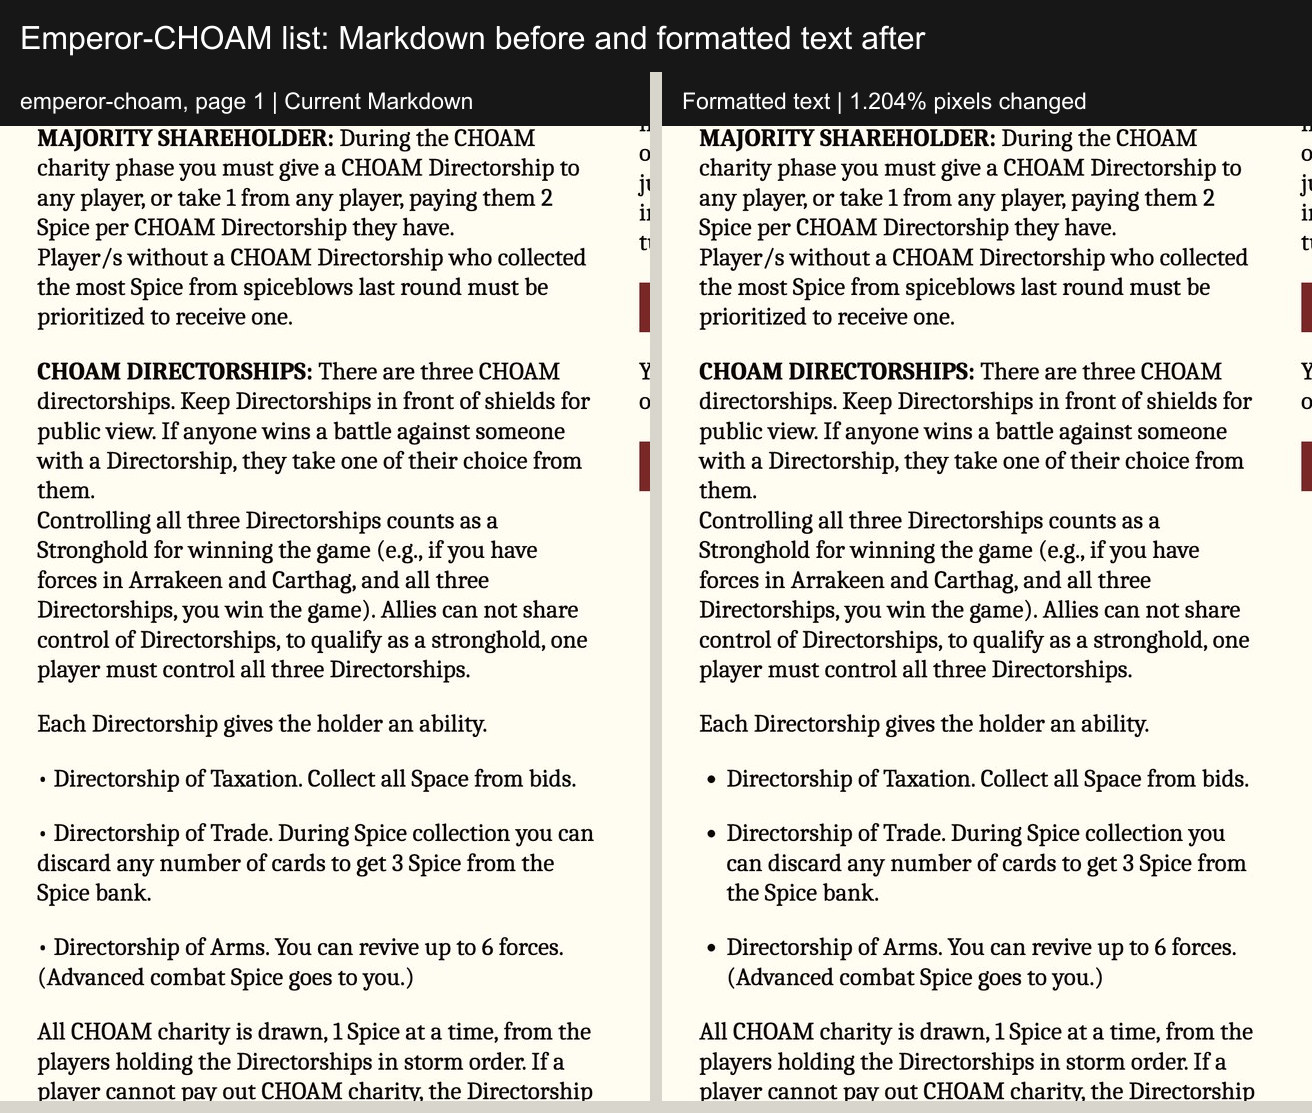
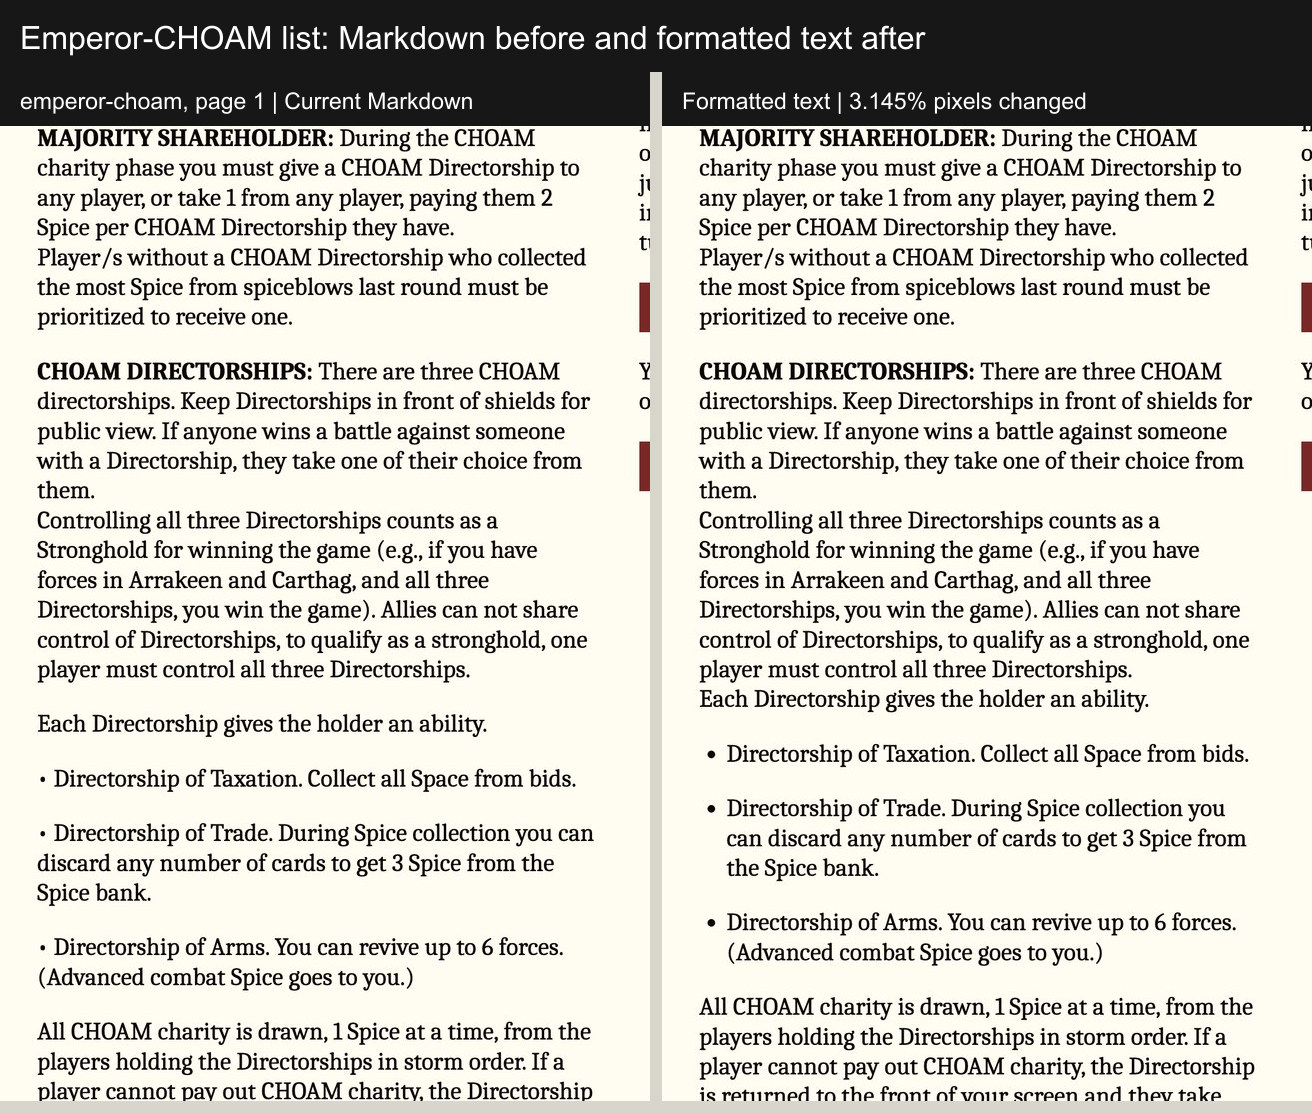
The sheet keeps inline formatted fields in flow

Changed region(s): [[0.5312, 0.611, 0.9688, 1.0], [0.6562, 0.0611, 0.6875, 0.1222]]

diff --git a/scripts/prototype-formatted-text-receipts.ts b/scripts/prototype-formatted-text-receipts.ts
@@ -295,8 +295,12 @@ const receipts: Receipt[] = [];
 let emperorChoamBefore: Buffer | undefined;
 let emperorChoamAfter: Buffer | undefined;
 let emperorChoamReceipt: Receipt | undefined;
+let richeseBefore: Buffer | undefined;
+let richeseAfter: Buffer | undefined;
+let richeseReceipt: Receipt | undefined;
 try {
   for (const row of [...liveFactions].sort((left, right) => left.slug.localeCompare(right.slug))) {
+    console.log(`Capturing faction ${row.slug}`);
     const faction = FactionInputSchema.parse(row.data);
     const input = snapshot('faction_sheet', {
       factionId: row._id,
@@ -322,6 +326,11 @@ try {
         emperorChoamAfter = candidate;
         emperorChoamReceipt = receipt;
       }
+      if (row.slug === 'richese' && pageIndex === 0) {
+        richeseBefore = current;
+        richeseAfter = candidate;
+        richeseReceipt = receipt;
+      }
       if (pageIndex === 0 && (factionSlugs as readonly string[]).includes(row.slug)) {
         factionRowsForSheet.push({ current, candidate, receipt });
       }
@@ -329,6 +338,7 @@ try {
   }
 
   for (const row of [...liveCards].sort((left, right) => left.slug.localeCompare(right.slug))) {
+    console.log(`Capturing treachery card ${row.slug}`);
     const card = TreacheryAsset.parse(row.data);
     const input = snapshot('card-treachery', {
       assetId: row._id,
@@ -356,13 +366,40 @@ try {
 }
 
 invariant(emperorChoamBefore && emperorChoamAfter && emperorChoamReceipt, 'Missing Emperor-CHOAM comparison');
+const emperorChoamMetadata = await sharp(emperorChoamBefore).metadata();
+invariant(
+  emperorChoamMetadata.width !== undefined && emperorChoamMetadata.height !== undefined,
+  'Missing page dimensions'
+);
+const emperorChoamHeader = {
+  left: 0,
+  top: 0,
+  width: emperorChoamMetadata.width,
+  height: Math.min(680, emperorChoamMetadata.height),
+};
+const emperorChoamBeforeHeader = await sharp(emperorChoamBefore).extract(emperorChoamHeader).png().toBuffer();
+const emperorChoamAfterHeader = await sharp(emperorChoamAfter).extract(emperorChoamHeader).png().toBuffer();
+const emperorChoamHeaderComparison = await comparePixels(emperorChoamBeforeHeader, emperorChoamAfterHeader);
 const emperorChoamFocus = { left: 0, top: 550, width: 1100, height: 1650 };
 const emperorChoamBeforeFocus = await sharp(emperorChoamBefore).extract(emperorChoamFocus).png().toBuffer();
 const emperorChoamAfterFocus = await sharp(emperorChoamAfter).extract(emperorChoamFocus).png().toBuffer();
 await Promise.all([
+  writeFile(path.join(receiptDirectory, 'emperor-choam-header-before.png'), emperorChoamBeforeHeader),
+  writeFile(path.join(receiptDirectory, 'emperor-choam-header-after.png'), emperorChoamAfterHeader),
   writeFile(path.join(receiptDirectory, 'emperor-choam-before.png'), emperorChoamBeforeFocus),
   writeFile(path.join(receiptDirectory, 'emperor-choam-after.png'), emperorChoamAfterFocus),
 ]);
+await contactSheet(
+  'emperor-choam-header-before-after.jpg',
+  'Emperor-CHOAM inline fields: Markdown before and formatted text after',
+  [
+    {
+      current: emperorChoamBeforeHeader,
+      candidate: emperorChoamAfterHeader,
+      receipt: { ...emperorChoamReceipt, label: 'page 1', ...emperorChoamHeaderComparison },
+    },
+  ]
+);
 await contactSheet('emperor-choam-before-after.jpg', 'Emperor-CHOAM list: Markdown before and formatted text after', [
   {
     current: emperorChoamBeforeFocus,
@@ -370,6 +407,34 @@ await contactSheet('emperor-choam-before-after.jpg', 'Emperor-CHOAM list: Markdo
     receipt: emperorChoamReceipt,
   },
 ]);
+
+invariant(richeseBefore && richeseAfter && richeseReceipt, 'Missing Richese comparison');
+const richeseMetadata = await sharp(richeseBefore).metadata();
+invariant(richeseMetadata.width !== undefined && richeseMetadata.height !== undefined, 'Missing Richese dimensions');
+const richeseHeader = {
+  left: 0,
+  top: 0,
+  width: richeseMetadata.width,
+  height: Math.min(680, richeseMetadata.height),
+};
+const richeseBeforeHeader = await sharp(richeseBefore).extract(richeseHeader).png().toBuffer();
+const richeseAfterHeader = await sharp(richeseAfter).extract(richeseHeader).png().toBuffer();
+const richeseHeaderComparison = await comparePixels(richeseBeforeHeader, richeseAfterHeader);
+await Promise.all([
+  writeFile(path.join(receiptDirectory, 'richese-header-before.png'), richeseBeforeHeader),
+  writeFile(path.join(receiptDirectory, 'richese-header-after.png'), richeseAfterHeader),
+]);
+await contactSheet(
+  'richese-header-before-after.jpg',
+  'Richese inline setup: Markdown before and formatted text after',
+  [
+    {
+      current: richeseBeforeHeader,
+      candidate: richeseAfterHeader,
+      receipt: { ...richeseReceipt, label: 'page 1', ...richeseHeaderComparison },
+    },
+  ]
+);
 
 await contactSheet(
   'faction-sheets.jpg',
@@ -390,6 +455,8 @@ The full sweep covers every live faction and treachery card in the clone. The co
 
 - [Faction sheet comparisons](./faction-sheets.jpg)
 - [Treachery card comparisons](./treachery-cards.jpg)
+- [Focused Emperor-CHOAM inline fields before and after](./emperor-choam-header-before-after.jpg)
+- [Focused Richese inline setup before and after](./richese-header-before-after.jpg)
 - [Focused Emperor-CHOAM before and after](./emperor-choam-before-after.jpg)
 
 Sweep summary:

diff --git a/src/game/components/block/MarkdownContent.tsx b/src/game/components/block/MarkdownContent.tsx
@@ -29,17 +29,21 @@ type InlineNodeOf<TBlock> = TBlock extends {
     : never;
 type InlineNode = InlineNodeOf<ParsedBlocks[number]>;
 
-function renderInline(nodes: readonly InlineNode[], keyPrefix: string): ReactNode[] {
+function renderInline(
+  nodes: readonly InlineNode[],
+  keyPrefix: string,
+  lineBreak: 'break' | 'space' = 'break'
+): ReactNode[] {
   return nodes.map((node, index) => {
     const key = `${keyPrefix}-${index}`;
     if (node.kind === 'text') {
       return node.value;
     }
     if (node.kind === 'line-break') {
-      return <br key={key} />;
+      return lineBreak === 'break' ? <br key={key} /> : ' ';
     }
 
-    const children = renderInline(node.children, key);
+    const children = renderInline(node.children, key, lineBreak);
     switch (node.mark) {
       case 'bold':
         return <strong key={key}>{children}</strong>;
@@ -54,31 +58,14 @@ function renderInline(nodes: readonly InlineNode[], keyPrefix: string): ReactNod
 function FormattedTextPrototype({ forceInline, value }: { forceInline?: boolean; value: string }) {
   const parsed = parseFormattedText(value);
   if (forceInline) {
-    return parsed.blocks.map((block, blockIndex) => {
-      if (block.kind === 'paragraph') {
-        return (
-          <Fragment key={`paragraph-${blockIndex}`}>
-            {blockIndex > 0 ? (
-              <>
-                <br />
-                <br />
-              </>
-            ) : null}
-            {renderInline(block.children, `paragraph-${blockIndex}`)}
-          </Fragment>
-        );
-      }
-      return (
-        <span key={`list-${blockIndex}`}>
-          {block.items.map((item, itemIndex) => (
-            <span key={`item-${itemIndex}`}>
-              {blockIndex > 0 || itemIndex > 0 ? <br /> : null}•{' '}
-              {renderInline(item.children, `list-${blockIndex}-item-${itemIndex}`)}
-            </span>
-          ))}
-        </span>
-      );
-    });
+    const [block] = parsed.blocks;
+    if (block === undefined) {
+      return null;
+    }
+    if (parsed.blocks.length !== 1 || block.kind !== 'paragraph') {
+      throw new Error('Inline formatted text cannot contain multiple blocks or lists');
+    }
+    return <Fragment>{renderInline(block.children, 'inline', 'space')}</Fragment>;
   }
 
   return parsed.blocks.map((block, blockIndex) =>
@@ -94,19 +81,24 @@ function FormattedTextPrototype({ forceInline, value }: { forceInline?: boolean;
   );
 }
 
-export const MarkdownContent: FC<
-  PropsWithChildren<{
-    value?: string;
-    forceInline?: boolean;
-    forceBlock?: boolean;
-  }>
-> = ({ forceBlock, forceInline, value = '', children }) => {
-  const v = `${value}${onlyText(children)}`.replace(/^(\w+.+)(\n)(^\w+.+)/gim, '$1  \n$3\n');
+type MarkdownContentProps = PropsWithChildren<{
+  value?: string;
+  forceInline?: boolean;
+  forceBlock?: boolean;
+}>;
+
+export const MarkdownContent: FC<MarkdownContentProps> = ({ forceBlock, forceInline, value = '', children }) => {
+  const source = `${value}${onlyText(children)}`;
   const prototypeMode = useContext(PrototypeRenderModeContext);
 
   if (prototypeMode === 'formatted-text') {
-    return <FormattedTextPrototype forceInline={forceInline} value={v} />;
+    return <FormattedTextPrototype forceInline={forceInline} value={source} />;
   }
 
+  const v = source.replace(/^(\w+.+)(\n)(^\w+.+)/gim, '$1  \n$3\n');
   return <Markdown options={{ disableParsingRawHTML: true, forceBlock, forceInline }}>{v}</Markdown>;
 };
+
+export const InlineMarkdownContent: FC<Omit<MarkdownContentProps, 'forceBlock' | 'forceInline'>> = (props) => (
+  <MarkdownContent {...props} forceInline />
+);

diff --git a/src/game/assets/faction/sheet/Sheet.formattedTextPrototype.test.tsx b/src/game/assets/faction/sheet/Sheet.formattedTextPrototype.test.tsx
@@ -1,0 +1,44 @@
+// @vitest-environment jsdom
+
+import { render, screen } from '@testing-library/react';
+import { describe, expect, it, vi } from 'vitest';
+
+vi.mock('../leader/Leader', () => ({
+  LeaderToken: () => <div data-test-leader-token />,
+}));
+vi.mock('../token/Token', () => ({
+  Token: () => <div data-test-faction-token />,
+}));
+vi.mock('../troop/Troop', () => ({
+  TroopToken: () => <div data-test-troop-token />,
+}));
+
+import { assetPublishingFaction } from '@shared/factions/fixtures/assetPublishingFaction';
+import { FactionRender } from '@shared/factions/schema';
+
+import { PrototypeFormattedTextProvider } from '../../../components/block/MarkdownContent';
+import { FactionSheetPage1 } from './Sheet';
+
+describe('FactionSheet formatted-text prototype', () => {
+  it('renders setup and revival as marks-only inline fields', () => {
+    const props = FactionRender.sheet.parse(structuredClone(assetPublishingFaction));
+    props.rules.startText = 'Keep the first line\nflowing on the second with *bold words*.';
+    props.rules.revivalText = '1 *free* revival.';
+
+    const { container } = render(
+      <PrototypeFormattedTextProvider mode="formatted-text">
+        <FactionSheetPage1 {...props} />
+      </PrototypeFormattedTextProvider>
+    );
+
+    const start = container.querySelector('[data-faction-start-instructions]');
+    const revival = screen.getByText('Revival:').parentElement;
+
+    expect(start?.textContent).toBe('Keep the first line flowing on the second with bold words.');
+    expect(start?.querySelectorAll('p, ul, br')).toHaveLength(0);
+    expect(screen.getAllByText('bold words')).toHaveLength(1);
+    expect(revival?.textContent).toBe('Revival: 1 free revival.');
+    expect(revival?.querySelectorAll('p, ul, br')).toHaveLength(0);
+    expect(screen.getAllByText('free')).toHaveLength(1);
+  });
+});

diff --git a/src/game/assets/faction/sheet/Sheet.tsx b/src/game/assets/faction/sheet/Sheet.tsx
@@ -2,7 +2,7 @@ import type { FactionRender } from '@shared/factions/schema';
 import type { z } from 'zod';
 
 import { CAPTURE_PROTOCOL } from '../../../../shared/asset-publishing/capture-protocol';
-import { MarkdownContent } from '../../../components/block/MarkdownContent';
+import { InlineMarkdownContent, MarkdownContent } from '../../../components/block/MarkdownContent';
 import { isLight } from '../../utils/contrast';
 import { LeaderToken } from '../leader/Leader';
 import { Token } from '../token/Token';
@@ -56,13 +56,14 @@ export function FactionSheetPage1(props: SheetProps) {
               ·
             </span>
             <span data-faction-start-instructions>
-              <MarkdownContent forceInline>{props.rules.startText}</MarkdownContent>
+              <InlineMarkdownContent>{props.rules.startText}</InlineMarkdownContent>
             </span>
           </>
         ) : null}
       </div>
       <div className={styles.revival}>
-        <strong className={styles.head}>Revival:</strong> <MarkdownContent>{props.rules.revivalText}</MarkdownContent>
+        <strong className={styles.head}>Revival:</strong>{' '}
+        <InlineMarkdownContent>{props.rules.revivalText}</InlineMarkdownContent>
       </div>
       <div className={styles.rules}>
         <div className={styles.subtitle}>Advantages</div>

diff --git a/workers/publisher/renderer-manifest.generated.ts b/workers/publisher/renderer-manifest.generated.ts
@@ -4,12 +4,12 @@
 // sharp version), so this file is reproducible on any machine (wayfinder #269).
 export const rendererManifest = {
   schemaVersion: 2,
-  rendererIdentity: 'faction-sheet/sha256:346ba035ca107f7711330ea322795824b665b4f982b3dcf384481a856eb817b5',
[1 lines of base64/hex data omitted]
+  rendererIdentity: 'faction-sheet/sha256:6dcfeabd24971a922c38ecdaf8411dbc391a828fffde64e367c69fd71d11fdd3',
[1 lines of base64/hex data omitted]
   components: {
[5 lines of base64/hex data omitted]
   },
   contract: {

diff --git a/src/game/assets/faction/sheet/Sheet.test.tsx b/src/game/assets/faction/sheet/Sheet.test.tsx
@@ -5,6 +5,7 @@ import type { ReactNode } from 'react';
 import { describe, expect, it, vi } from 'vitest';
 
 vi.mock('../../../components/block/MarkdownContent', () => ({
+  InlineMarkdownContent: ({ children }: { children?: ReactNode }) => <>{children}</>,
   MarkdownContent: ({ children }: { children?: ReactNode }) => <>{children}</>,
 }));
 vi.mock('../leader/Leader', () => ({

diff --git a/prototype-receipts/672/README.md b/prototype-receipts/672/README.md
@@ -1,57 +1,32 @@
 # Formatted-text print-renderer prototype receipts
 
-Prototype for [#672](https://github.com/ndelangen/dunezone/issues/672). The inputs came from the read-only `dev:tame-raccoon-541` clone on 2026-08-25T09:15:36.820Z. The capture uses the actual publisher bundle and fixed publication geometry.
+Prototype for [#672](https://github.com/ndelangen/dunezone/issues/672). The inputs came from the read-only `dev:tame-raccoon-541` clone on 2026-08-25T09:38:48.213Z. The capture uses the actual publisher bundle and fixed publication geometry.
 
 The full sweep covers every live faction and treachery card in the clone. The contact sheets show all three faction documents with stored list syntax, the two other largest faction changes, one dense faction, and three paragraph-heavy cards. A changed pixel means one or more RGB channels moved by more than 8 levels.
 
 - [Faction sheet comparisons](./faction-sheets.jpg)
 - [Treachery card comparisons](./treachery-cards.jpg)
+- [Focused Emperor-CHOAM inline fields before and after](./emperor-choam-header-before-after.jpg)
+- [Focused Richese inline setup before and after](./richese-header-before-after.jpg)
 - [Focused Emperor-CHOAM before and after](./emperor-choam-before-after.jpg)
 
 Sweep summary:
 
-- Faction sheets: 70 renders, 35 pixel-identical, 35 changed, maximum 1.204%.
+- Faction sheets: 70 renders, 62 pixel-identical, 8 changed, maximum 10.214%.
 - Treachery cards: 9 renders, 9 pixel-identical, 0 changed, maximum 0.000%.
 
 Changed renders:
 
 | Source | Published asset | Pixel change | Changed bounds |
 | --- | --- | ---: | --- |
-| bene-gesserit, page 1 | faction_sheet | 0.026% | 294,355 to 564,419 |
-| bene-tleilax, page 1 | faction_sheet | 0.033% | 294,355 to 584,419 |
-| choam, page 1 | faction_sheet | 0.026% | 294,355 to 564,419 |
-| combine-honnete-ober-advancer-mercantiles, page 1 | faction_sheet | 0.033% | 294,355 to 584,419 |
-| corrino, page 1 | faction_sheet | 0.032% | 294,355 to 576,419 |
-| ecaz-ecaz-moritani, page 1 | faction_sheet | 0.026% | 294,355 to 557,419 |
-| emperor, page 1 | faction_sheet | 0.026% | 294,355 to 564,419 |
-| emperor-choam, page 1 | faction_sheet | 1.204% | 63,355 to 1004,2013 |
-| fremen, page 1 | faction_sheet | 0.032% | 295,355 to 582,419 |
-| ginaz-swordmasters, page 1 | faction_sheet | 0.058% | 294,355 to 677,419 |
-| hivers, page 1 | faction_sheet | 0.362% | 63,356 to 999,1517 |
-| honored-matres, page 1 | faction_sheet | 0.032% | 294,355 to 583,419 |
-| house-atreides, page 1 | faction_sheet | 0.032% | 294,355 to 583,419 |
-| house-harkonnen, page 1 | faction_sheet | 0.032% | 294,355 to 583,419 |
-| house-richese, page 1 | faction_sheet | 0.032% | 294,355 to 583,419 |
-| iduali, page 1 | faction_sheet | 0.093% | 295,355 to 838,419 |
-| ixians, page 1 | faction_sheet | 0.126% | 294,355 to 941,419 |
-| ixians-in-progress, page 1 | faction_sheet | 0.053% | 294,355 to 659,419 |
-| landsraad-council, page 1 | faction_sheet | 0.058% | 294,355 to 677,419 |
-| mindwardens, page 1 | faction_sheet | 0.032% | 294,355 to 576,419 |
-| moritani-ecaz-moritani, page 1 | faction_sheet | 0.026% | 294,355 to 557,419 |
-| new-faction, page 1 | faction_sheet | 0.072% | 294,356 to 730,419 |
-| nobirds, page 1 | faction_sheet | 0.072% | 294,356 to 730,419 |
-| ocm, page 1 | faction_sheet | 0.053% | 294,355 to 659,419 |
-| ordos, page 1 | faction_sheet | 0.064% | 294,356 to 692,419 |
-| richese, page 1 | faction_sheet | 0.847% | 294,217 to 1999,601 |
-| shrek, page 1 | faction_sheet | 0.072% | 294,356 to 730,419 |
-| smugglers, page 1 | faction_sheet | 0.057% | 294,356 to 673,419 |
-| space-orks, page 1 | faction_sheet | 0.240% | 294,355 to 1353,430 |
-| spacing-guild, page 1 | faction_sheet | 0.026% | 294,355 to 564,419 |
-| spice-smugglers, page 1 | faction_sheet | 0.052% | 294,355 to 658,419 |
-| suk-medics, page 1 | faction_sheet | 0.052% | 294,355 to 658,419 |
-| test-faction, page 1 | faction_sheet | 0.053% | 294,355 to 656,419 |
-| the-smugglers, page 1 | faction_sheet | 0.057% | 294,356 to 673,419 |
-| thinking-machines, page 1 | faction_sheet | 0.058% | 294,355 to 677,419 |
+| combine-honnete-ober-advancer-mercantiles, page 1 | faction_sheet | 4.727% | 63,780 to 2036,1542 |
+| emperor-choam, page 1 | faction_sheet | 3.145% | 62,1503 to 1004,2307 |
+| hivers, page 1 | faction_sheet | 0.799% | 63,1292 to 999,1475 |
+| house-richese, page 1 | faction_sheet | 2.852% | 62,2016 to 1011,2634 |
+| moritani-ecaz-moritani, page 1 | faction_sheet | 10.214% | 1080,881 to 2036,2349 |
+| ocm, page 1 | faction_sheet | 2.209% | 63,1536 to 984,2155 |
+| richese, page 1 | faction_sheet | 0.015% | 618,222 to 1935,287 |
+| the-smugglers, page 1 | faction_sheet | 7.505% | 61,856 to 2036,1659 |
 
 Revision and recapture scope:
 
